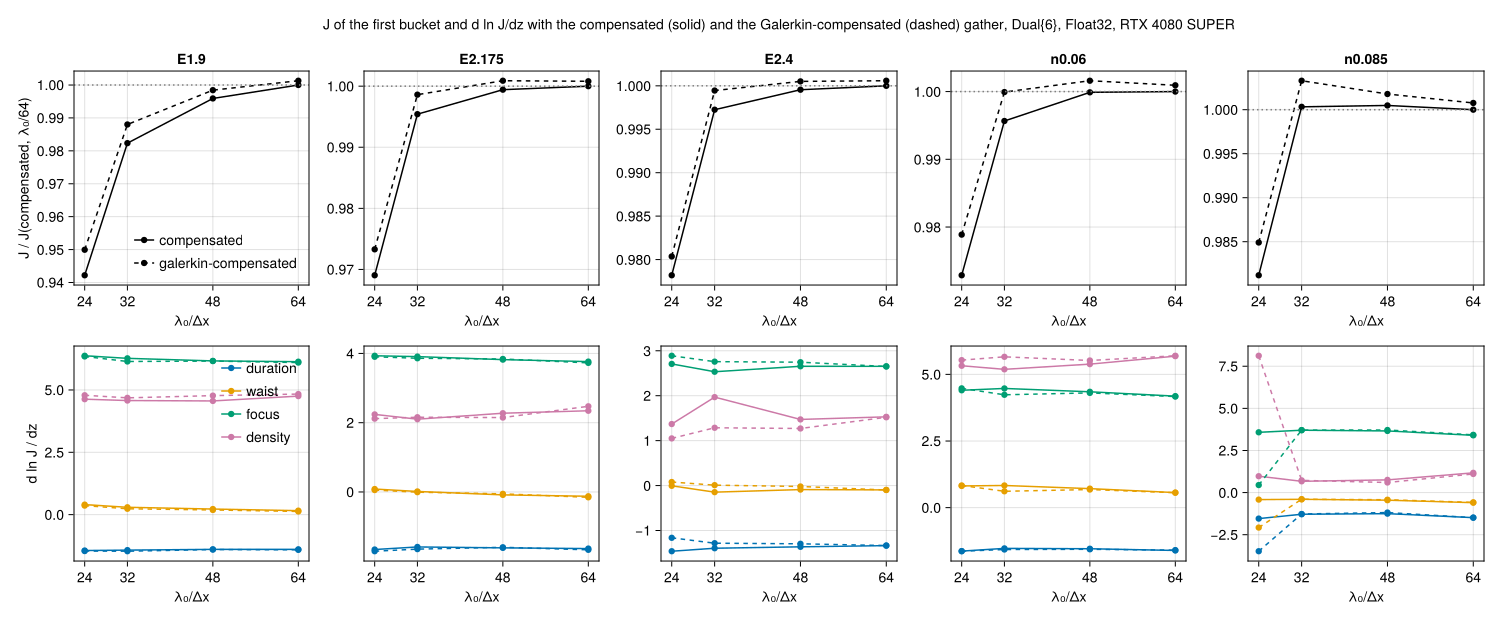
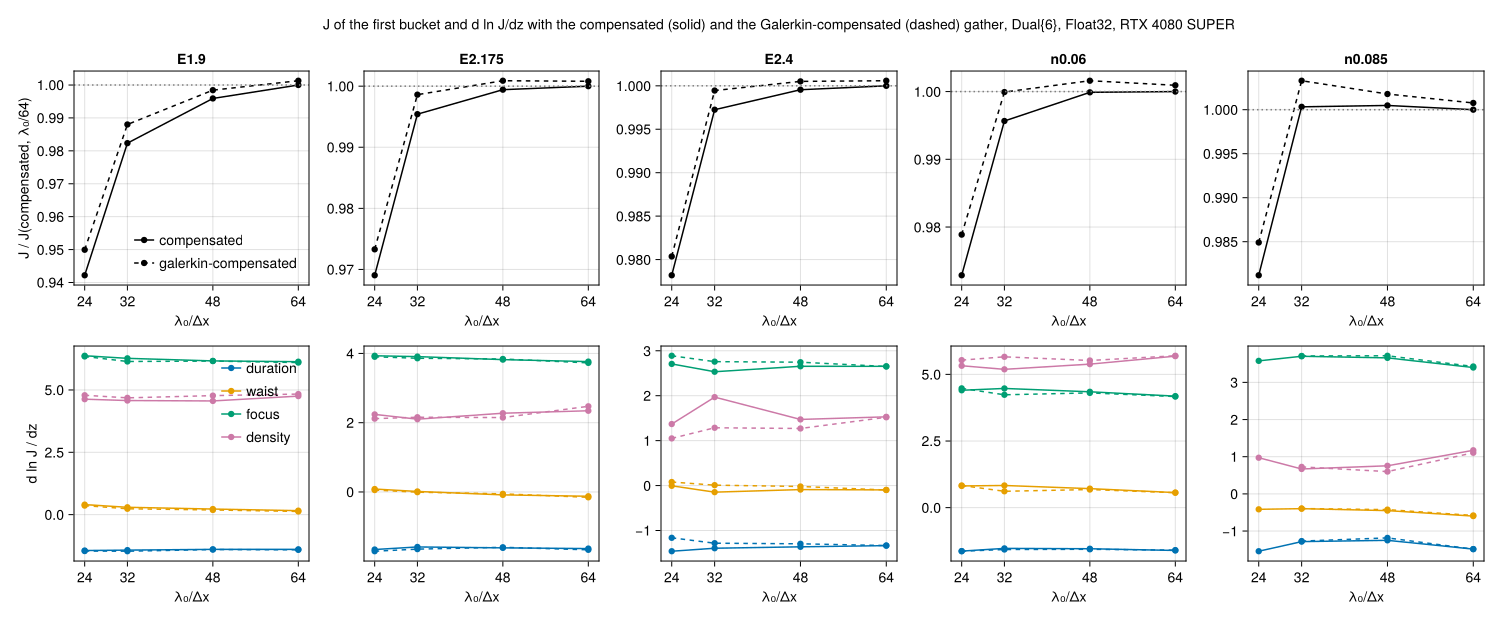
WP-078: the physics breaker's findings: the n0.085 Galerkin-compensated λ₀/24 Float32 gradient left out, the Float64 CPU rerun and the central differences stated
The breaker reran the λ₀/24 jobs at E1.9 and n0.085 on the CPU in Float64.
- J agrees with the GPU's Float32 to 1.1e-5 (E1.9) and 4e-5 (n0.085).
- At E1.9 the gradients in the free directions agree to 0.006.
- The n0.085 Galerkin-compensated Float32 gradient does not reproduce: d ln J/dn is 8.12 on
  the GPU, 30.6 on the CPU in Float32 and 1.07 in Float64. wp078_report.jl leaves that
  gradient out (BAD_GRADIENT) and keeps its J.
- Central differences in Float64 at that point give 1.36 to 1.90, against 0.98 to 1.07 from
  the duals.

Claude-Session: https://claude.ai/code/session_015niyFqqxE75PGmQCVA5GPu

diff --git a/reports/wp-078-reverse-mode-at-production-size.md b/reports/wp-078-reverse-mode-at-production-size.md
@@ -7,13 +7,13 @@
 - On the WP-023 periodic plasma at 448×256 (B1), the reverse pass costs 7.1 times the primal and 0.34 times Dual{4} (`cost.md`). That Dual{4} is 12 times its Dual{1}. On the trapped case the reverse gradient costs 1.6 to 3 times Dual{4}.
 - L-BFGS-B with the reverse gradient reaches WP-068's born-only optimum from all four starts: J_born = 0.22160 at τ = 7.762 (the floor of the power cap), w = 7.346 to 7.349, focus 110, n = 0.10. WP-068 reached 0.2216 at w = 7.346 to 7.348 with duals. Near the optimum the reverse gradient is rough: d ln J/dz changes by up to 0.44 for Δw = 1.6·10⁻⁵ (`opt/tables.md`), while J is flat there.
 - At WP-065's five points, the Galerkin-compensated gather raises J over the compensated gather by 0.2 to 0.8 % at λ₀/24 and by 0.06 to 0.13 % at λ₀/64. At λ₀/32 it is closer to the finest grid's J at four of the points: 0.01 to 1.2 % below it, against 0.27 to 1.8 %. A Galerkin-compensated run takes 10 to 18 % less time.
-- The two gathers' d ln J/dz differ by up to 0.68 at λ₀/32 and 0.21 at λ₀/48 and /64. With either gather, the density component still moves by up to 0.5 between λ₀/48 and /64 (figure). One λ₀/24 run (n0.085, Galerkin-compensated) is an outlier, with d ln J/dn = 8.1 against 0.97.
+- The two gathers' d ln J/dz differ by up to 0.68 at λ₀/32 and 0.21 at λ₀/48 and /64. With either gather, the density component still moves by up to 0.5 between λ₀/48 and /64 (figure). One Float32 gradient, n0.085 Galerkin-compensated at λ₀/24, does not reproduce and is left out. Its d ln J/dn is 8.1 on the GPU, 30.6 on the CPU in Float32 and 1.07 in Float64, while its J agrees to 4·10⁻⁵. At that point and grid, central differences in Float64 give 1.36 to 1.90 with either gather, against 0.98 to 1.07 from the duals.
 - The reverse pass needs workarounds in the scripts, none in `lib/`. They are filed as #545, #546, #547, #551 and #552. #552 traces the `copyto!` crash to `CUDA` not being loaded beside `CUDACore`, which may explain more of them. A group of five was found unnecessary and stays as run. Not measured: Dual{1}, and the memory each method needs on the trapped case (Open issues).
 
 | | |
 |---|---|
 | Work package | WP-078 (`trace/wp/WP-078-reverse-mode-at-production-size.md`); goals A0, A3, A7, A8 |
-| Commits | B1 and the gather campaign `d5351531` (`dirty = false`). The reverse gradients `32a2a6fc` (C = 20, host), `493fef38` (device checkpoints) and `8ffbb0a8` (the rest). The optimization `32a2a6fc` with `trapped.jl` of `7be04bf8`. Those manifests say `dirty = true` because the run's scripts were committed after the run; every input hash in them matches a file of the named commit. The milestone-1 runs are `770ffff0` to `1efde42f`. The `trapped.jl` hash of `enzyme-trapped-steps-20261120T164202` matches no commit; only its timings are used here |
+| Commits | The gradient runs also loaded `scripts/enzyme/spike/unrolled_species.jl` (`PM_ENZYME_PATCH`, named in their manifests but not hashed), at the same commit. B1 and the gather campaign `d5351531` (`dirty = false`). The reverse gradients `32a2a6fc` (C = 20, host), `493fef38` (device checkpoints) and `8ffbb0a8` (the rest). The optimization `32a2a6fc` with `trapped.jl` of `7be04bf8`. Those manifests say `dirty = true` because the run's scripts were committed after the run; every input hash in them matches a file of the named commit. The milestone-1 runs are `770ffff0` to `1efde42f`. The `trapped.jl` hash of `enzyme-trapped-steps-20261120T164202` matches no commit; only its timings are used here |
 | Runs | `wp078-b1-cost-5090` (`scripts/enzyme/cost.jl`, Reference and Fast), `wp078-b2-trapped-5090` (`scripts/enzyme/trapped.jl steps` and `grad`, logs), `wp078-opt-born-reverse-5090` (`scripts/optim/trapped2d_opt.jl opt gradient=enzyme-reverse objective=born cap=cetal25`) and `wp078-gathergrad-4080` (`scripts/optim/trapped2d.jl campaign gathergrad 24x2,32x2,48x3,64x4 float=32 backend=cuda`), each on branch `runs/<run>` |
 | Input hashes | SHA-256 of every input in each run's `manifest.toml` under `wp-078-reverse-mode-at-production-size/<run>/` |
 | Environment | Julia 1.13.4 (1.13.3 for the gather campaign); Enzyme 0.13.221, KernelAbstractions 0.10.8 (the root manifest of `d5351531`; this PR's head has `main`'s 0.10.6, so a rerun takes that manifest); NVIDIA GeForce RTX 5090 with an AMD Ryzen 9 9950X host; the gather campaign on an NVIDIA GeForce RTX 4080 SUPER; KernelAbstractions CUDA, Float32, Reference mode |
@@ -46,12 +46,13 @@ The first table of `julia +1.13 --project=scripts scripts/enzyme/wp078_report.jl
 
 ![J and d ln J/dz against the grid with the compensated and the Galerkin-compensated gather](wp-078-reverse-mode-at-production-size/gathergrad.png)
 
-The gather campaign's numbers are in `gathergrad.md` and `gathergrad.json`. The optimization's paths are in `opt/tables.md` and `opt/trapped2d_opt.png`, made by `scripts/optim/trapped2d_opt.jl report` (`opt/trapped2d_opt.json`). The B1 cost table is in `cost.md`, from `scripts/enzyme/table.jl` on the two Reference-mode runs.
+The gather campaign's numbers are in `gathergrad.md` and `gathergrad.json`. A physics breaker reran the λ₀/24 jobs at E1.9 and n0.085 on the CPU in Float64. J agrees with the GPU's Float32 to 1.1·10⁻⁵ relative at E1.9 and 4·10⁻⁵ at n0.085, and the Galerkin-compensated gather's rise in J to 0.01 percentage points. At E1.9, d ln J/dz in the free directions agrees to 0.006. At n0.085 it agrees for the compensated gather; the Galerkin-compensated run there is the one left out above. The optimization's paths are in `opt/tables.md` and `opt/trapped2d_opt.png`, made by `scripts/optim/trapped2d_opt.jl report` (`opt/trapped2d_opt.json`). The B1 cost table is in `cost.md`, from `scripts/enzyme/table.jl` on the two Reference-mode runs.
 
 ## Not shown
 
 - Dual{1}, a plain primal run and the memory each method needs, all on the trapped-beam case. B1 measured Dual{1} on the periodic plasma; its whole-card memory peaks (10.8 to 23.7 GiB) are in `runs/wp078-b1-cost-5090` (`b1/status`).
 - A reverse gradient at λ₀/48, in Float64, in Fast mode or at another point. Every reverse run is at the base point, λ₀/32, Float32, Reference.
+- Whether the other Float32 gradients of the gather campaign carry smaller rounding errors of the same kind. Only E1.9 and n0.085 at λ₀/24 were rerun in Float64.
 - Why the optimization's reverse pass takes 33.0 s per gradient against 19.5 s in the gradient table at the same C and host checkpoints. Its window is 3 λ₀ longer and its objective counts born electrons only; neither is shown to explain the difference.
 - The milestone-1 dot-product checks per piece of the step, with a random tangent on every array (`logs/checks/` on the run branch). After the identity part ⟨r, v⟩ is subtracted, the reverse and forward results disagree: by 0.43 relative for `step!`, 8.5·10⁻³ for `current!` and 8.2 for the ionization. Per array the difference reaches 3·10⁻² of that array's |r·v|. The cause is not known. The whole-run gradient in the four parameter directions agrees with Dual{4}.
 

diff --git a/reports/wp-078-reverse-mode-at-production-size/gathergrad.md b/reports/wp-078-reverse-mode-at-production-size/gathergrad.md
@@ -16,7 +16,7 @@
 | n0.06 | λ₀/32, Δy = π/8 | 0.17241 | 0.17315 | -0.43 % | -0.01 % | -1.53, 0.832, 4.47, 5.19 | -1.57, 0.614, 4.23, 5.66 | 56 | 50 |
 | n0.06 | λ₀/48, Δy = π/12 | 0.17314 | 0.17344 | -0.01 % | 0.16 % | -1.54, 0.714, 4.35, 5.38 | -1.56, 0.679, 4.3, 5.52 | 148 | 125 |
 | n0.06 | λ₀/64, Δy = π/16 | 0.17316 | 0.17332 | 0.00 % | 0.09 % | -1.61, 0.565, 4.18, 5.68 | -1.59, 0.561, 4.17, 5.7 | 333 | 275 |
-| n0.085 | λ₀/24, Δy = π/8 | 0.43608 | 0.43774 | -1.88 % | -1.51 % | -1.54, -0.416, 3.58, 0.973 | -3.48, -2.08, 0.448, 8.12 | 42 | 38 |
+| n0.085 | λ₀/24, Δy = π/8 | 0.43608 | 0.43774 | -1.88 % | -1.51 % | -1.54, -0.416, 3.58, 0.973 | left out: Float32 gradient not reproducible: d ln J/dn 8.12 (GPU, Float32), 30.6 (CPU, Float32), 1.07 (CPU, Float64) | 42 | 38 |
 | n0.085 | λ₀/32, Δy = π/8 | 0.44459 | 0.44591 | 0.03 % | 0.33 % | -1.28, -0.398, 3.7, 0.67 | -1.27, -0.394, 3.71, 0.726 | 57 | 50 |
 | n0.085 | λ₀/48, Δy = π/12 | 0.44466 | 0.44524 | 0.05 % | 0.18 % | -1.25, -0.451, 3.66, 0.756 | -1.18, -0.424, 3.72, 0.6 | 149 | 126 |
 | n0.085 | λ₀/64, Δy = π/16 | 0.44444 | 0.44478 | 0.00 % | 0.08 % | -1.49, -0.598, 3.4, 1.17 | -1.49, -0.58, 3.43, 1.11 | 332 | 274 |
